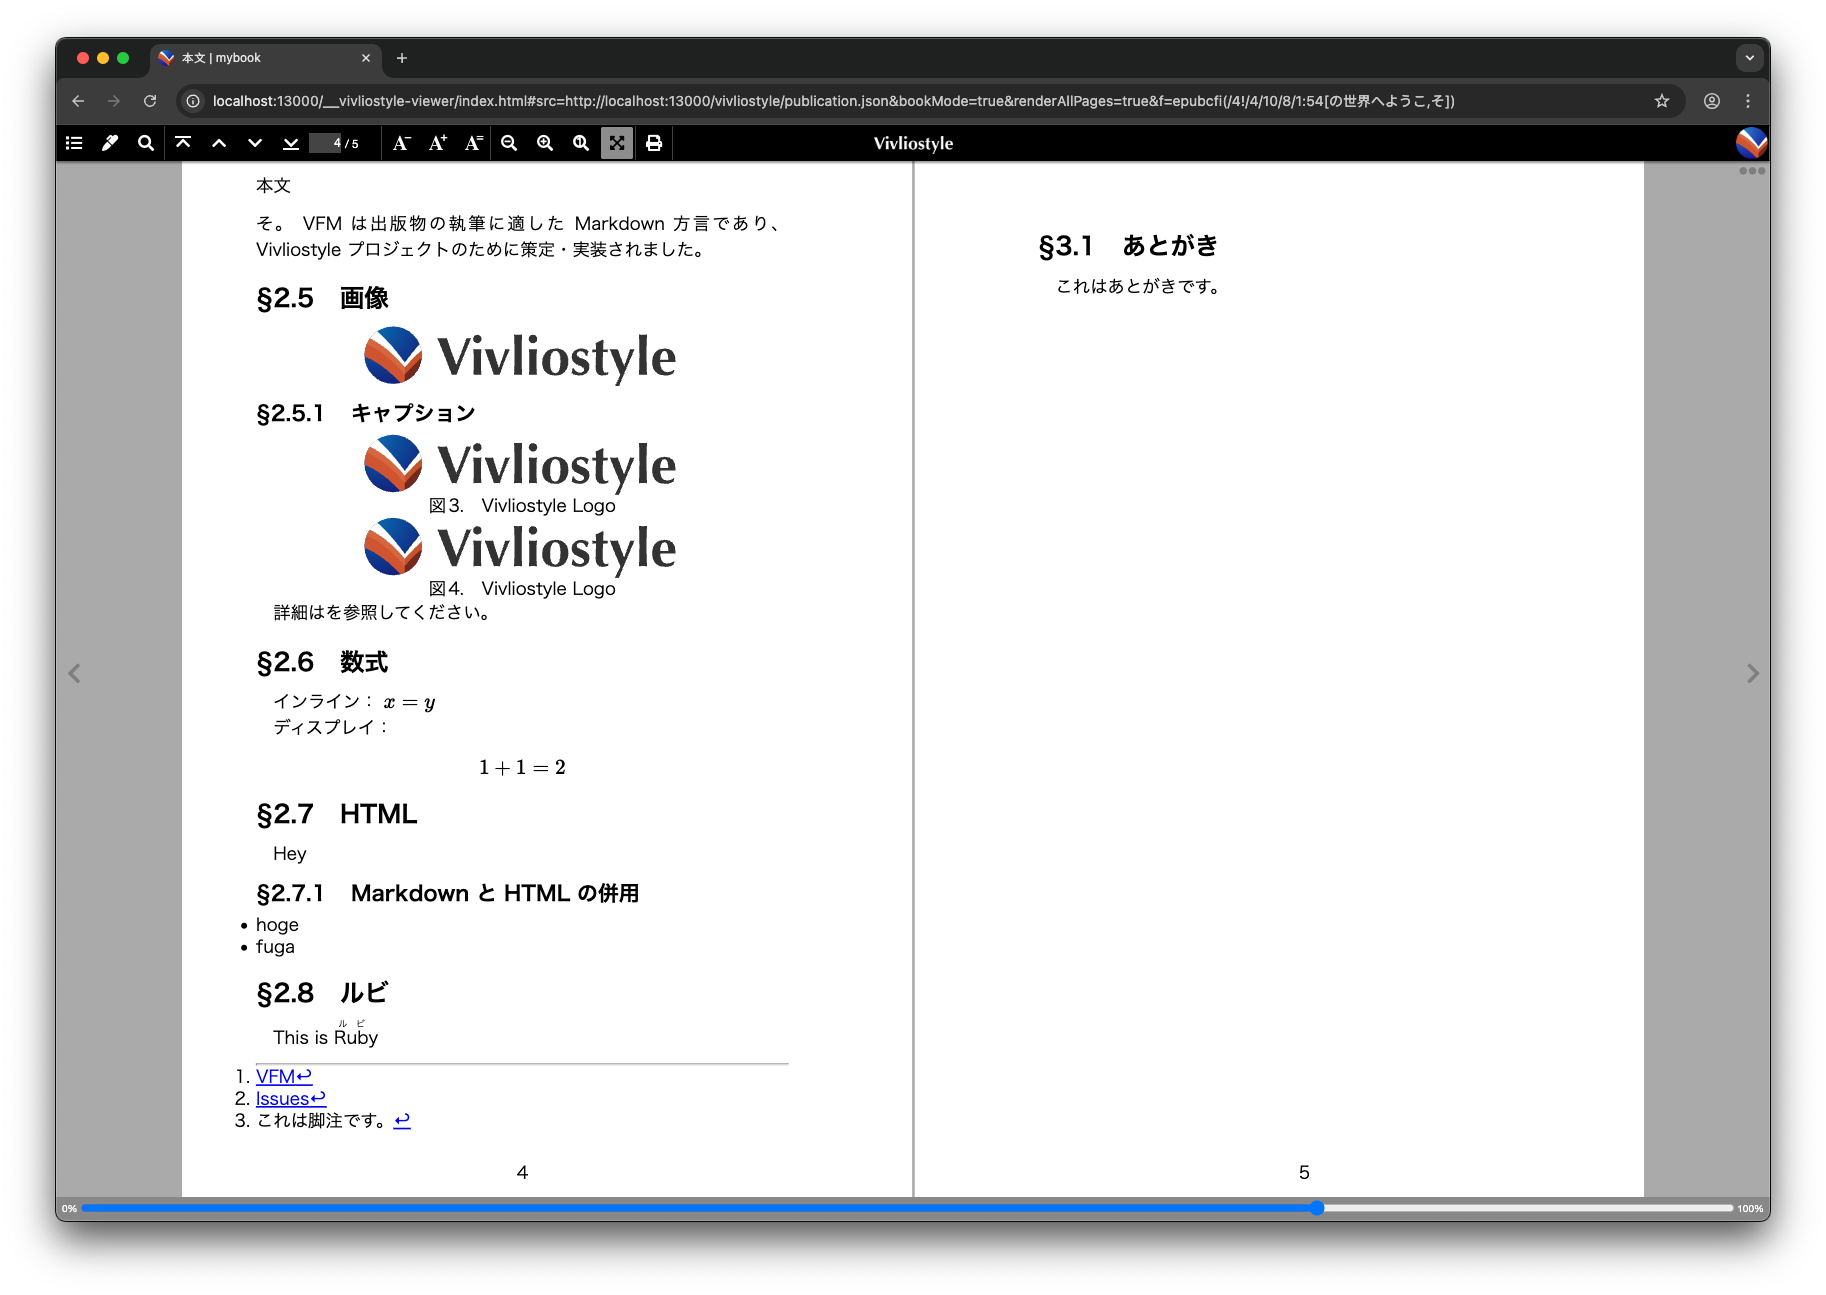
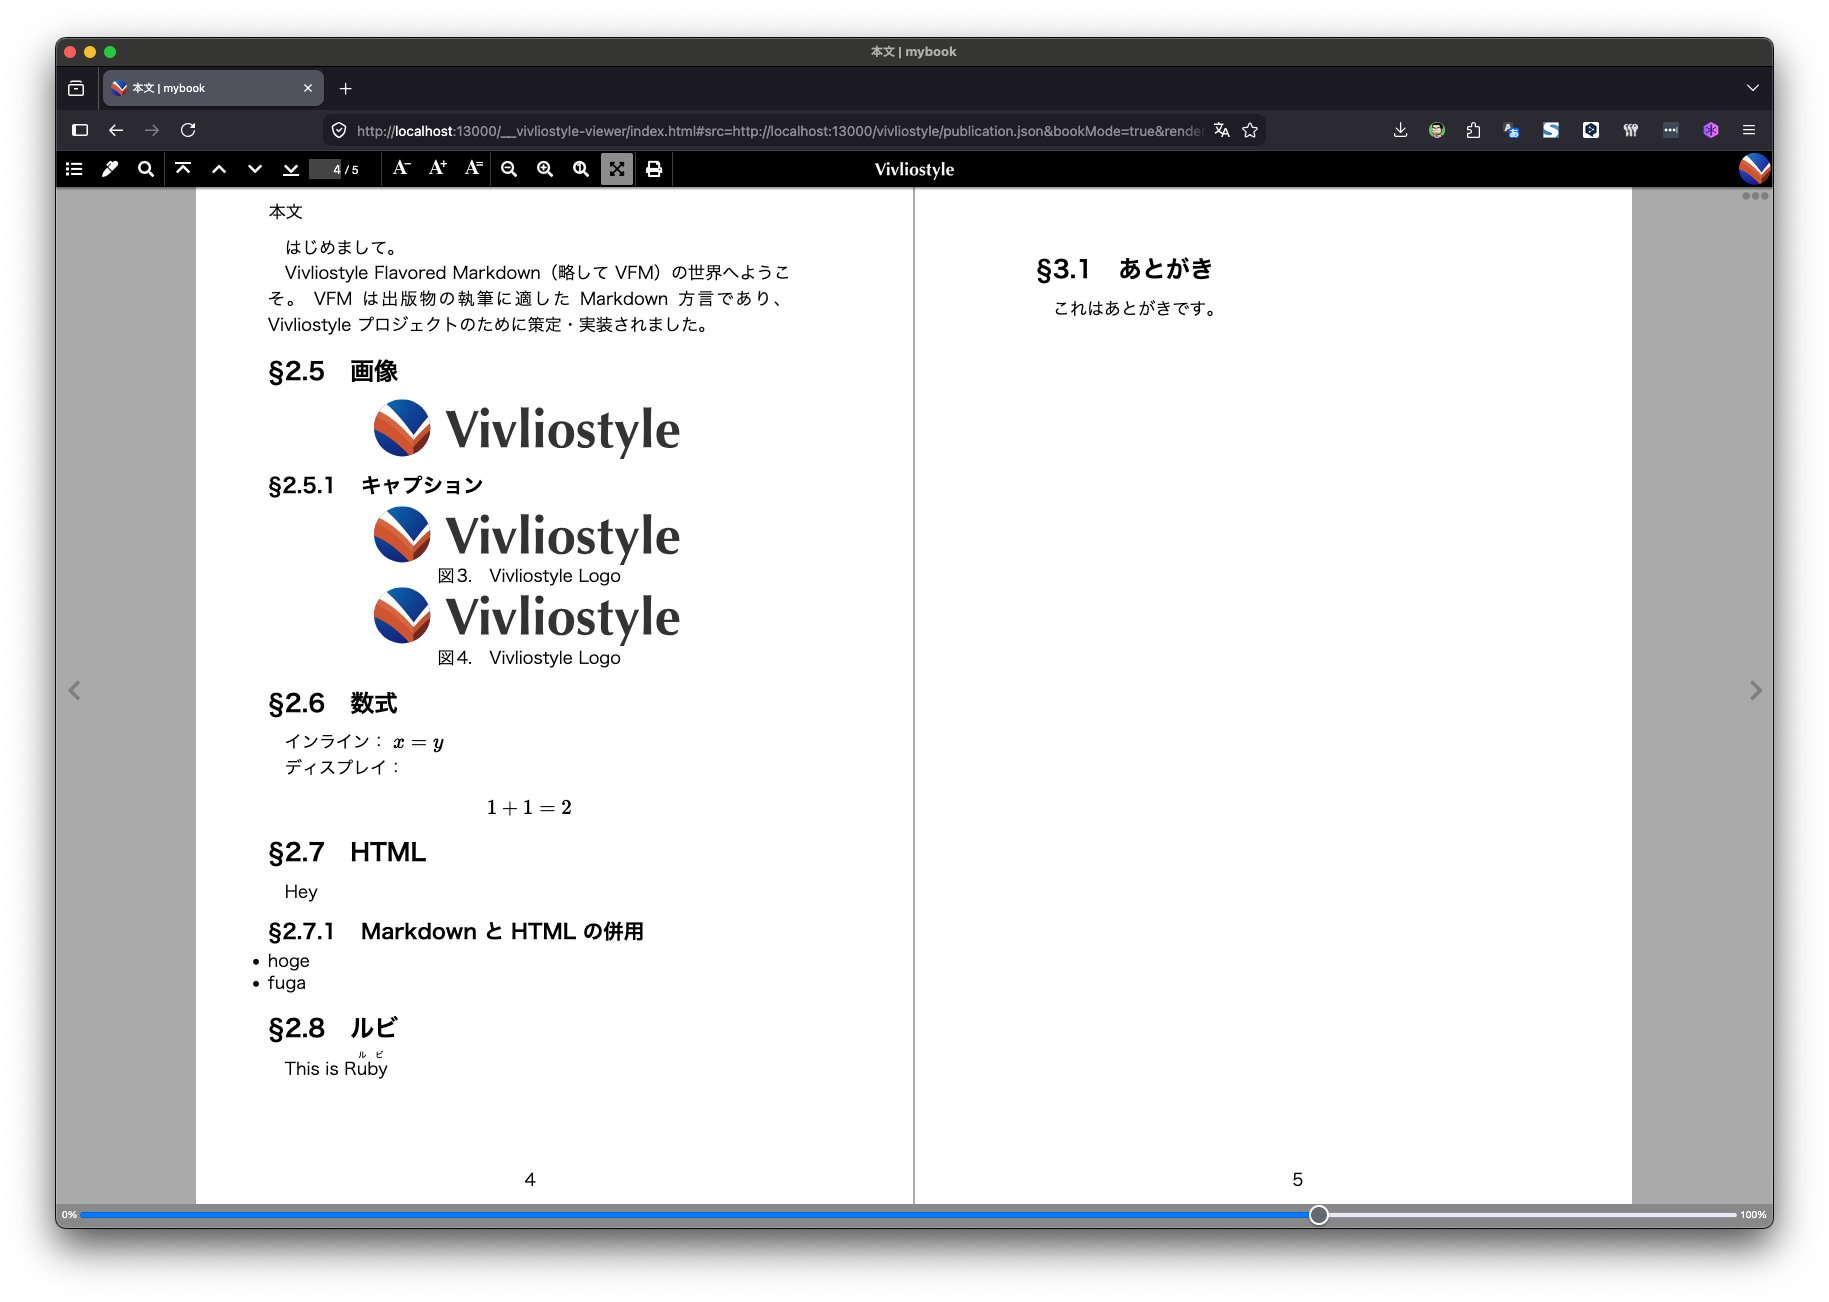
fix(tutorials): align ja screenshots with dpub format and correct back-reference description
Replace ja preview-*.png in configure-basic-elements with captures taken in
dpub footnote mode (matches en). Also correct the back-reference glyph
description: VFM dpub outputs the footnote number as superscript, not an
arrow.

diff --git a/ja/tutorials/configure-basic-elements.html b/ja/tutorials/configure-basic-elements.html
@@ -135,7 +135,7 @@ figure figcaption::before {
 
 ### 脚注のスタイル
 
-Vivliostyle では VFM の dpub（DPUB-ARIA）形式の脚注出力を使うと、脚注が各ページの下部に配置される本格的な脚注として組版されます。dpub 形式では、脚注の参照元に `footnote-ref`、参照先（↘）に `footnote-back`、脚注本体（`<aside>` 要素）に `footnote` というクラスが付与されます。vivliostyle.config.js に以下の設定を追加することで dpub 形式が有効になります。
+Vivliostyle では VFM の dpub（DPUB-ARIA）形式の脚注出力を使うと、脚注が各ページの下部に配置される本格的な脚注として組版されます。dpub 形式では、脚注の参照元に `footnote-ref`、参照先（上付きの脚注番号、例: ¹）に `footnote-back`、脚注本体（`<aside>` 要素）に `footnote` というクラスが付与されます。vivliostyle.config.js に以下の設定を追加することで dpub 形式が有効になります。
 
 ```js
 export default defineConfig({

diff --git a/tutorials/configure-basic-elements.html b/tutorials/configure-basic-elements.html
@@ -135,7 +135,7 @@ figure figcaption::before {
 
 ### Footnote Styles
 
-Using VFM’s dpub (DPUB-ARIA) footnote output in Vivliostyle typesets footnotes as proper footnotes placed at the bottom of each page. In the dpub format, the class `footnote-ref` is applied to the footnote reference, `footnote-back` to the back-reference (⇘), and `footnote` to the footnote body (`<aside>` element). Add the following setting to `vivliostyle.config.js` to enable the dpub format.
+Using VFM’s dpub (DPUB-ARIA) footnote output in Vivliostyle typesets footnotes as proper footnotes placed at the bottom of each page. In the dpub format, the class `footnote-ref` is applied to the footnote reference, `footnote-back` to the back-reference (superscript footnote number, e.g. ¹), and `footnote` to the footnote body (`<aside>` element). Add the following setting to `vivliostyle.config.js` to enable the dpub format.
 
 ```js
 export default defineConfig({
